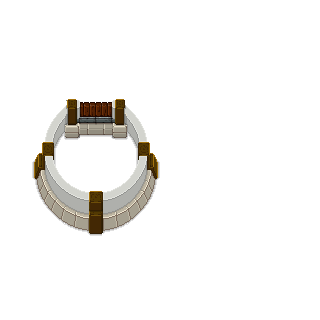
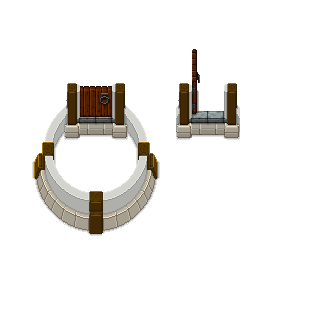
wip: tower roof/walls

Changed region(s): [[0.5312, 0.1562, 0.75, 0.4375], [0.1875, 0.25, 0.4062, 0.3438]]

diff --git a/js/worldGen.js b/js/worldGen.js
@@ -1430,9 +1430,9 @@ class WorldGen {
     static tower = {
         tag: "tower",
         columns: 12,
-        rows: 12,
+        rows: 13,
         offx: 4,
-        offy: 51,
+        offy: 49,
         autoArea: true,
         layers: {
             l1: {
@@ -1441,28 +1441,79 @@ class WorldGen {
                     "0000","0000","0000","0000","0000","0000","0000","0000","0000","0000","0000","0000",
                     "0000","0000","0000","0000","0000","0000","0000","0000","0000","0000","0000","0000",
                     "0000","0000","0000","0000","0000","0000","0000","0000","0000","0000","0000","0000",
-                    "0000","0000","0000","0004","0004","0004","0004","0004","0004","0000","0000","0000",
-                    "0000","0000","0000","0004","0004","0004","0004","0004","0004","0000","0000","0000",
-                    "0000","0000","0000","0004","0004","0004","0004","0004","0004","0000","0000","0000",
-                    "0000","0000","0000","0004","0004","0004","0004","0004","0004","0000","0000","0000",
                     "0000","0000","0000","0000","0000","0000","0000","0000","0000","0000","0000","0000",
+                    "0000","0000","0000","0000","0000","0000","0000","0000","0000","0000","0000","0000",
+                    "0000","0000","0000","0004","0004","0004","0004","0004","0004","0000","0000","0000",
+                    "0000","0000","0000","0004","0004","0004","0004","0004","0004","0000","0000","0000",
+                    "0000","0000","0000","0004","0004","0004","0004","0004","0004","0000","0000","0000",
+                    "0000","0000","0000","0004","0004","0004","0004","0004","0004","0000","0000","0000",
                     "0000","0000","0000","0000","0000","0000","0000","0000","0000","0000","0000","0000",
                     "0000","0000","0000","0000","0000","0000","0000","0000","0000","0000","0000","0000",
                     "0000","0000","0000","0000","0000","0000","0000","0000","0000","0000","0000","0000",
                 ],
                 fg: [
                     "0000","0000","0000","0000","0000","0000","0000","0000","0000","0000","0000","0000",
+                    "0000","0000","0000","0000","0000","0000","0000","0000","0000","0000","0000","0000",
+                    "0000","0000","0000","0000","0000","0000","0000","0000","0000","0000","0000","0000",
                     "0000","000U","0000","0000","0000","0000","0000","0000","0000","0000","0000","0000",
                     "0000","0000","0000","0000","0000","0000","0000","0000","0000","0000","000o","0000",
                     "0000","0000","0000","0000","0000","0000","0000","0000","0000","0000","0000","0000",
-                    "0000","0000","0000","0000","0000","0000","0000","0000","0000","0000","0000","000u",
+                    "0000","0000","003o","0000","0o0w","0000","0000","0000","003p","0000","0000","000u",
                     "0000","0000","0000","0000","0000","0000","0000","0000","0000","0000","0000","0000",
-                    "0000","0000","0000","0000","0000","0000","0000","0000","0000","0000","0000","0000",
+                    "0000","0000","003q","0000","0000","0000","0000","0000","003r","0000","0000","0000",
                     "000s","0000","0000","0000","0000","0000","0000","0000","0000","0000","0000","0000",
-                    "0000","0000","0000","0000","0000","0000","0000","0000","0000","0000","000o","0000",
+                    "0000","0000","003s","0000","003t","0000","0000","0000","003u","0000","000o","0000",
                     "0000","0000","000o","0000","0000","0000","0000","0000","0000","0000","0000","0000",
-                    "0000","0000","002C","000o","0000","0000","0000","0000","0000","000o","0000","000u",
-                    "0000","0000","0000","0000","000s","0000","0000","0000","0000","0000","0000","0000",
+                    "0000","0000","0000","003v","0000","0000","0000","0000","0000","000o","0000","000u",
+                ],
+            },
+            l2: {
+                fg: [
+                    "0000","0000","0000","0000","0000","0000","0000","0000","0000","0000","0000","0000",
+                    "0000","0000","0000","0000","0000","0000","0000","0000","0000","0000","0000","0000",
+                    "0000","0000","0000","0000","0000","0000","0000","0000","0000","0000","0000","0000",
+                    "0000","0000","0000","0000","0000","0000","0000","0000","0000","0000","0000","0000",
+                    "0000","0000","0000","0000","0000","0000","0000","0000","0000","0000","0000","0000",
+                    "0000","0000","0000","0000","0000","0000","0000","0000","0000","0000","0000","0000",
+                    "0000","0000","0000","0000","0000","0000","0000","0000","0000","0000","0000","0000",
+                    "0000","0000","0000","0000","0000","0000","0000","0000","0000","0000","0000","0000",
+                    "0000","0000","0000","0000","0000","0000","0000","0000","0000","0000","0000","0000",
+                    "0000","0000","0000","0000","0000","0000","0000","0000","0000","0000","0000","0000",
+                    "0000","0000","0000","0000","0000","0000","0000","0000","0000","0000","0000","0000",
+                    "0000","0000","003n","0000","0000","0000","0000","0000","0000","0000","0000","0000",
+                    "0000","0000","0000","0000","0000","0000","0000","0000","0000","0000","0000","0000",
+                ],
+                fgo: [
+                    "0000","0000","0000","0000","0000","0000","0000","0000","0000","0000","0000","0000",
+                    "0000","0000","0000","0000","0000","0000","0000","0000","0000","0000","0000","0000",
+                    "0000","0000","0000","0000","0000","0000","0000","0000","0000","0000","0000","0000",
+                    "0000","0000","0000","0000","0000","0000","0000","0000","0000","0000","0000","0000",
+                    "0000","0000","0000","0000","0000","0000","0000","0000","0000","0000","0000","0000",
+                    "0000","0000","0000","0000","0000","0000","0000","0000","0000","0000","0000","0000",
+                    "0000","0000","0000","0000","0000","0000","0000","0000","0000","0000","0000","0000",
+                    "0000","0000","0000","0000","0000","0000","0000","0000","0000","0000","0000","0000",
+                    "0000","0000","0000","0000","0000","0000","0000","0000","0000","0000","0000","0000",
+                    "0000","0000","0000","0000","0000","0000","0000","0000","0000","0000","0000","0000",
+                    "0000","0000","003n","0000","0000","0000","0000","0000","0000","0000","0000","0000",
+                    "0000","0000","0000","0000","0000","0000","0000","0000","0000","0000","0000","0000",
+                    "0000","0000","0000","0000","0000","0000","0000","0000","0000","0000","0000","0000",
+                ],
+            },
+            l3: {
+                fg: [
+                    "0000","0000","0000","0000","0000","0000","0000","0000","0000","0000","0000","0000",
+                    "0000","0000","0000","0000","0000","0000","0000","0000","0000","0000","0000","0000",
+                    "0000","0000","0000","0000","0000","0000","0000","0000","0000","0000","0000","0000",
+                    "0000","0000","0000","0000","0000","0000","0000","0000","0000","0000","0000","0000",
+                    "0000","0000","0000","0000","0000","0000","0000","0000","0000","0000","0000","0000",
+                    "0000","0000","0000","0000","0000","0000","0000","0000","0000","0000","0000","0000",
+                    "0000","0000","0000","0000","0000","0000","0000","0000","0000","0000","0000","0000",
+                    "0000","0000","0000","0000","0000","0000","0000","0000","0000","0000","0000","0000",
+                    "0000","0000","0000","0000","0000","0000","0000","0000","0000","0000","0000","0000",
+                    "0000","0000","0000","0000","0000","0000","0000","0000","0000","0000","0000","0000",
+                    "0000","0000","0000","0000","0000","0000","0000","0000","0000","0000","0000","0000",
+                    "003m","0000","0000","0000","0000","0000","0000","0000","0000","0000","0000","0000",
+                    "0000","0000","0000","0000","0000","0000","0000","0000","0000","0000","0000","0000",
                 ],
             },
         },

diff --git a/js/sparkAssets.js b/js/sparkAssets.js
@@ -517,7 +517,30 @@ class SparkAssets {
             },
 
             { src: "img/tower.png", loader: "Sheet", refs: [
-                Templates.xsprite("tower.stub",             2, 6, {width: 16*8, height: 16*9}),
+                Templates.xsprite("tower.1",            2, 6, {width: 16*2, height: 16*3}),
+                Templates.xsprite("tower.door.close",   4, 3, {width: 16*4, height: 16*6}),
+                Templates.xsprite("tower.door.open",    11, 3, {width: 16*4, height: 16*6}),
+                Templates.xsprite("tower.2",            8, 6, {width: 16*2, height: 16*3}),
+                Templates.xsprite("tower.3",            2, 9, {width: 16*2, height: 16*2}),
+                Templates.xsprite("tower.4",            8, 9, {width: 16*2, height: 16*2}),
+                Templates.xsprite("tower.5",            2, 11, {width: 16*2, height: 16*2}),
+                Templates.xsprite("tower.6",            4, 11, {width: 16*4, height: 16*2}),
+                Templates.xsprite("tower.7",            8, 11, {width: 16*2, height: 16*2}),
+                Templates.xsprite("tower.8",            3, 13, {width: 16*6, height: 16*2}),
+            ]},
+
+            { tag: "tower.door", 
+                cls: "Animator", 
+                animations: { 
+                    [ModelState.idle]: { cls: "Media", tag: "tower.door.close" }, 
+                    [ModelState.close]: { cls: "Media", tag: "tower.door.close" }, 
+                    [ModelState.open]: { cls: "Media", tag: "tower.door.open" }, 
+                },
+            },
+
+            { src: "img/tower1.png", loader: "Sheet", refs: [
+                Templates.xsprite("tower.roof",         0, 0, {width: 16*12, height: 16*14}),
+                Templates.xsprite("tower.slice",        12, 0, {width: 16*8, height: 16*5}),
             ]},
 
             { src: "img/vendor.png", loader: "Sheet", refs: [
@@ -1169,7 +1192,7 @@ class SparkAssets {
             Templates.tile("02z", "bar.lgtable",        {offx: 8, offy: -24, xcollider: {tag: Collider.sparkthru, width: 30, height: 48, offy:0}}),
             Templates.tile("02A", "bar.sidetable",      {offx: 8, offy: -16, xcollider: {width: 20, height: 40, offy:-4}}),
             // -- 02B taken
-            Templates.tile("02C", "tower.stub",         {offx: 56, offy: -64, xcollider: {}}),
+            //Templates.tile("02C", "tower.stub",         {offx: 56, offy: -64, xcollider: {}}),
 
             Templates.tile("02D", "dock.t"),
             Templates.tile("02E", "dock.l",             {offy: -8}),
@@ -1220,6 +1243,25 @@ class SparkAssets {
             Templates.tile("03j", "bridge.rail",        {offx: 40, offy: -16}),
             Templates.tile("03k", "bridge",             {offx: 24, offy: -16, xcollider: {width: 32, height: 12, offy: 16}}),
             Templates.tile("03l", "bridge.rail.upper",  {mediaTag: "bridge.rail", offx: 40, offy: -26}),
+
+            Templates.tile("03m", "tower.roof",         {offx: 88, offy: -104}),
+            Templates.tile("03n", "tower.slice",        {offx: 56, offy: -32}),
+
+            Templates.tile("03o", "tower.1",            {offx: 8, offy: -16}),
+            //Templates.xsprite("tower.door.close",   4, 3, {width: 16*4, height: 16*6}),
+            Templates.tile("03p", "tower.2",            {offx: 8, offy: -16}), //8, 6, {width: 16*2, height: 16*3}),
+            Templates.tile("03q", "tower.3",            {offx: 8, offy: -8}), //2, 9, {width: 16*2, height: 16*2}),
+            Templates.tile("03r", "tower.4",            {offx: 8, offy: -8}), //8, 9, {width: 16*2, height: 16*2}),
+            Templates.tile("03s", "tower.5",            {offx: 8, offy: -8}), //2, 11, {width: 16*2, height: 16*2}),
+            Templates.tile("03t", "tower.6",            {offx: 24, offy: -8}), //4, 11, {width: 16*4, height: 16*2}),
+            Templates.tile("03u", "tower.7",            {offx: 8, offy: -8}), //8, 11, {width: 16*2, height: 16*2}),
+            Templates.tile("03v", "tower.8",            {offx: 40, offy: -8}), //3, 13, {width: 16*6, height: 16*2}),
+
+
+            /*
+                Templates.xsprite("tower.roof",             0, 0, {width: 16*12, height: 16*14}),
+                Templates.xsprite("tower.slice",            12, 0, {width: 16*8, height: 16*5}),
+                */
 
             // ------------------------------------------------------------------------------
 
@@ -1470,6 +1512,15 @@ class SparkAssets {
                 offx: -8, offy: -24, 
                 range: 4.2*16,
                 xcollider: { width: 10, height: 10, offy: 24, offx: 8},
+            }),
+
+            Templates.object("o0w", "tower.door", "Door", { 
+                offx: 24, offy: -40, 
+                approachOffsets: [{x:0, y:16},  {x:16, y:16},  {x:0, y:-32}, {x:16, y:-32}],
+                exitOffsets:     [{x:0, y:-32}, {x:16, y:-32}, {x:0, y:16},  {x:16, y:16}],
+                xopenSfx: { cls: "Media", tag: "doorOpening"}, 
+                xcloseSfx: { cls: "Media", tag: "doorClosing"}, 
+                xcollider: { offx: 8, offy: 24, width:48, height:24 }, 
             }),
 
             // @@@ ------------------------------------------------------------------------------
